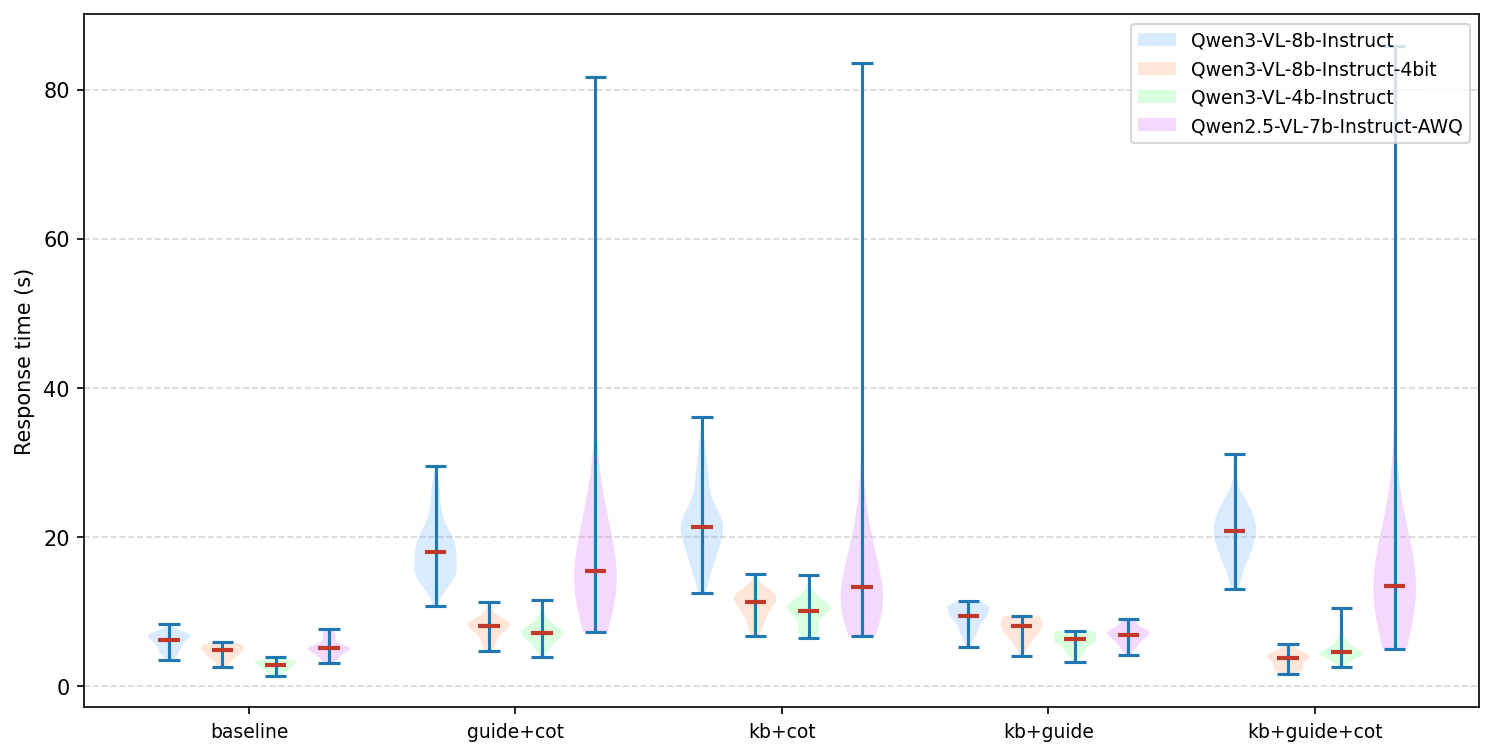
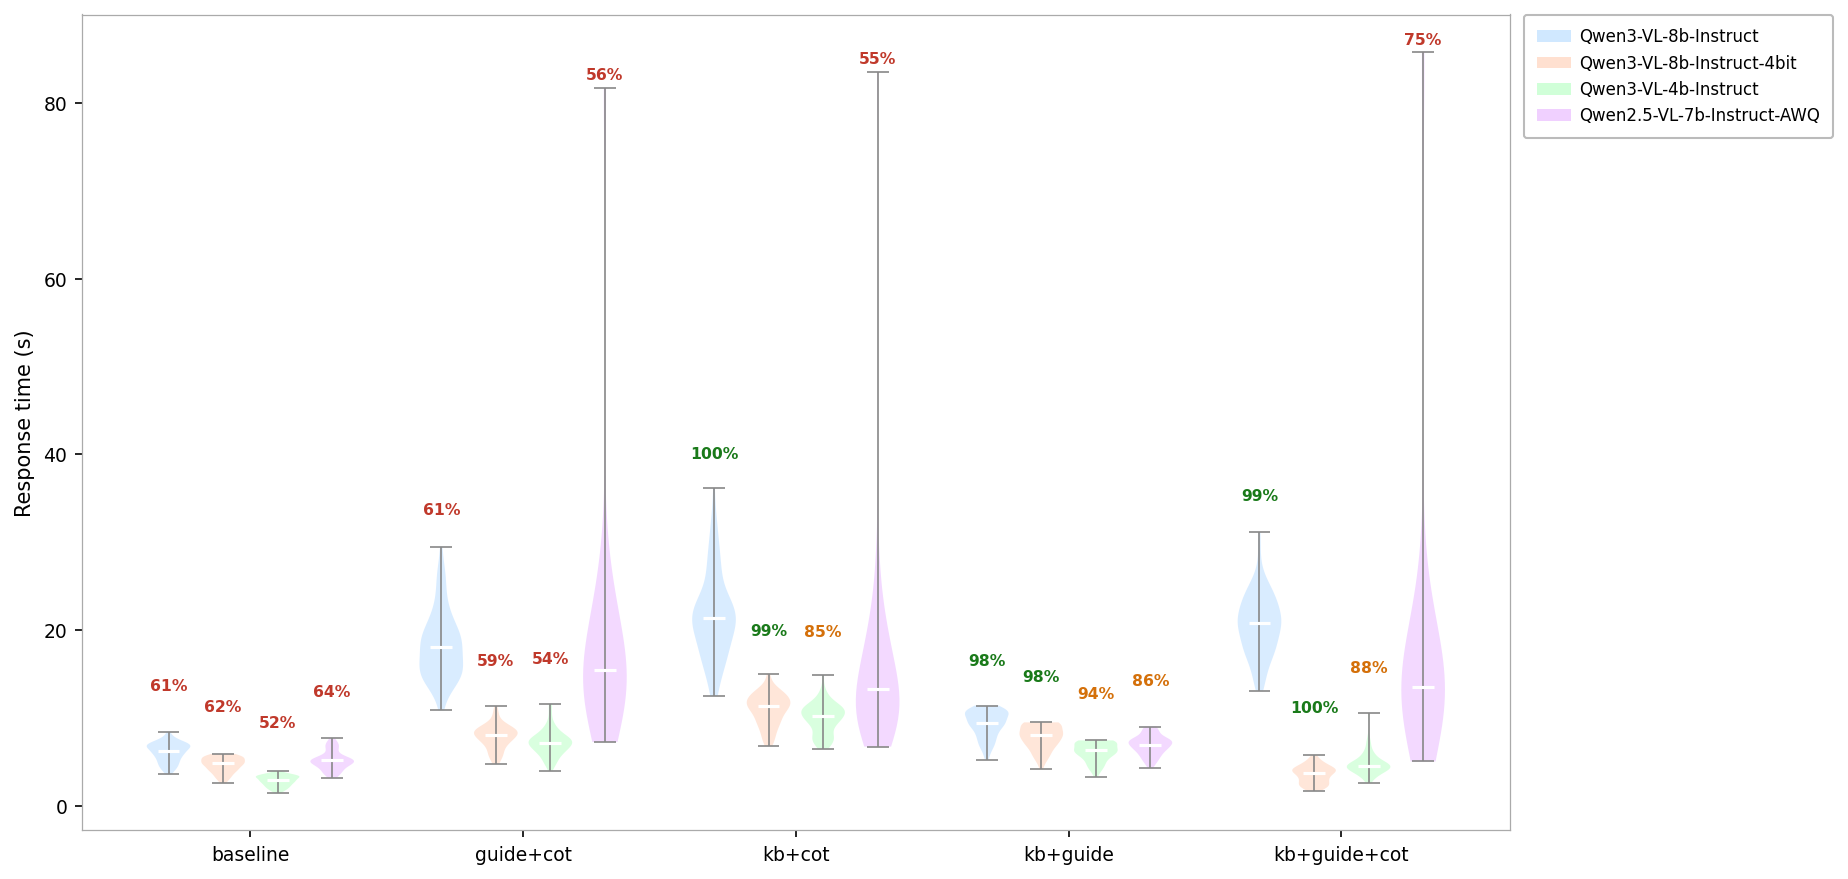
update

diff --git a/src/run.py b/src/run.py
@@ -146,7 +146,26 @@ def _misid_avg_ned(entries):
     return sum(neds) / len(neds) if neds else None
 
 
+def _pretty_model(name):
+    return (name.replace("qwen3", "Qwen3").replace("qwen2.5", "Qwen2.5")
+               .replace("-vl-", "-VL-").replace("instruct", "Instruct")
+               .replace("awq", "AWQ").replace("4bit", "4bit"))
+
+
+def _cfg_label(code):
+    cfg = code[1:]
+    parts = []
+    if cfg[0] == "1": parts.append("kb")
+    if cfg[1] == "1": parts.append("guide")
+    if cfg[2] == "1": parts.append("cot")
+    return "+".join(parts) if parts else "baseline"
+
+
 def analyze_all():
+    import matplotlib.pyplot as plt
+    import matplotlib.colors as mcolors
+    import numpy as np
+
     base = Path(__file__).parent
     log_dir = base.parent / "logs"
     log_files = sorted(log_dir.glob("log????.txt"))
@@ -177,30 +196,161 @@ def analyze_all():
         print("No parseable entries found.")
         return
 
-    def pct(a, b):
-        return f"{a/b*100:.1f}%" if b else "-"
+    def cell(n, c, u, m):
+        if n == 0:
+            return "-"
+        return f"{c/n*100:.0f} / {u/n*100:.0f} / {m/n*100:.0f}"
 
     n_total = rows[0]["stats"][0]
 
-    base = Path(__file__).parent
-    out = base.parent / "logs" / "analysis.md"
-    lines = []
-    lines.append("# 实验结果对比\n")
-    lines.append(f"n={n_total}\n")
-    lines.append("**正确** = 识别正确　**未知** = 拒识/高不确定性（安全，触发人工复核）　**误识** = 给出错误药名（**危险**）\n")
+    # ── ablation table (消融表) ───────────────────────────────────────────────
+    # cfg order: canonical 2³ order (kb/guide/cot bits)
+    CFG_ORDER = [
+        "baseline",
+        "kb", "guide", "cot",
+        "kb+guide", "kb+cot", "guide+cot",
+        "kb+guide+cot",
+    ]
 
-    lines.append("| code | 模型 | 知识库 | 引导 | CoT | 正确 | 未知 | 误识 | 误识均NED | 均时 |")
-    lines.append("|:----:|:----:|:------:|:----:|:---:|:----:|:----:|:----:|:---------:|:----:|")
+    # build lookup: (model, cfg_label) -> (n, correct, unknown, misid)
+    lookup = {}
     for r in rows:
-        n, c, u, m = r["stats"]
-        avg = f"{sum(r['times'])/len(r['times']):.3f}s" if r["times"] else "-"
-        ned = f"{r['ned']:.2f}" if r["ned"] is not None else "-"
-        lines.append(
-            f"| {r['code']} | {r['model']} | {r['kb']} | {r['guide']} | {r['cot']} "
-            f"| {pct(c,n)} | {pct(u,n)} | {pct(m,n)} | {ned} | {avg} |"
-        )
+        lookup[(r["model"], _cfg_label(r["code"]))] = r["stats"]
 
-    out.write_text("\n".join(lines) + "\n", encoding="utf-8")
+    all_models = list(dict.fromkeys(r["model"] for r in rows))
+    model_labels = [_pretty_model(m) for m in all_models]
+
+    out_md = base.parent / "logs" / "analysis.md"
+    lines = []
+    lines.append("# 消融实验结果\n")
+    lines.append(f"n={n_total}　**正确% / 拒识% / 误识%**\n")
+
+    # header
+    header = "| 配置 | " + " | ".join(model_labels) + " |"
+    sep    = "|:---:|" + ":---:|" * len(all_models)
+    lines.append(header)
+    lines.append(sep)
+
+    for cfg in CFG_ORDER:
+        cells = []
+        for model in all_models:
+            stats = lookup.get((model, cfg))
+            if stats is None:
+                cells.append("-")
+            else:
+                n, c, u, m = stats
+                cells.append(cell(n, c, u, m))
+        lines.append(f"| {cfg} | " + " | ".join(cells) + " |")
+
+    out_md.write_text("\n".join(lines) + "\n", encoding="utf-8")
+
+    # ── shared data prep ──────────────────────────────────────────────────────
+    all_models = list(dict.fromkeys(r["model"] for r in rows))
+    all_cfgs   = list(dict.fromkeys(_cfg_label(r["code"]) for r in rows))
+
+    # accuracy matrix  [model × cfg]
+    acc_matrix  = np.full((len(all_models), len(all_cfgs)), np.nan)
+    misid_matrix = np.full((len(all_models), len(all_cfgs)), np.nan)
+    for r in rows:
+        mi = all_models.index(r["model"])
+        ci = all_cfgs.index(_cfg_label(r["code"]))
+        n, c, u, m = r["stats"]
+        acc_matrix[mi, ci]   = c / n * 100
+        misid_matrix[mi, ci] = m / n * 100
+
+    model_labels = [_pretty_model(m) for m in all_models]
+
+    # ── heatmap ───────────────────────────────────────────────────────────────
+    fig, axes = plt.subplots(1, 2, figsize=(14, max(3.5, len(all_models) * 0.9 + 1.5)))
+
+    for ax, matrix, title, cmap, fmt in [
+        (axes[0], acc_matrix,   "Accuracy (%)",        "YlGn",  ".1f"),
+        (axes[1], misid_matrix, "Misidentification (%)", "YlOrRd", ".1f"),
+    ]:
+        im = ax.imshow(matrix, cmap=cmap, vmin=0, vmax=100, aspect="auto")
+        ax.set_xticks(range(len(all_cfgs)))
+        ax.set_xticklabels(all_cfgs, rotation=30, ha="right", fontsize=8)
+        ax.set_yticks(range(len(all_models)))
+        ax.set_yticklabels(model_labels, fontsize=8)
+        ax.set_title(title, fontsize=10, pad=8)
+        for i in range(len(all_models)):
+            for j in range(len(all_cfgs)):
+                val = matrix[i, j]
+                if not np.isnan(val):
+                    text_color = "black" if val < 60 else ("white" if val > 80 else "black")
+                    ax.text(j, i, f"{val:{fmt}}", ha="center", va="center",
+                            fontsize=8, color=text_color, fontweight="bold")
+        plt.colorbar(im, ax=ax, fraction=0.046, pad=0.04)
+
+    fig.tight_layout()
+    out_hm = base.parent / "logs" / "heatmap.png"
+    fig.savefig(out_hm, dpi=150, bbox_inches="tight")
+    plt.close(fig)
+
+    # ── scatter: avg_time vs accuracy ─────────────────────────────────────────
+    # model: color (muted academic palette), cfg: marker shape
+    # Nature-style palette (npg: Nature Publishing Group)
+    color_map  = ["#E64B35", "#4DBBD5", "#00A087", "#3C5488", "#F39B7F"]
+    marker_map = {"baseline": "o", "kb": "s", "guide": "^", "cot": "D",
+                  "kb+guide": "s", "kb+cot": "^", "guide+cot": "D", "kb+guide+cot": "P"}
+
+    fig2, ax2 = plt.subplots(figsize=(9, 5.5))
+    fig2.patch.set_facecolor("white")
+    ax2.set_facecolor("white")
+    ax2.set_xlabel("Average response time (s)", fontsize=10)
+    ax2.set_ylabel("Accuracy (%)", fontsize=10)
+    ax2.tick_params(labelsize=9)
+    ax2.grid(False)
+    for spine in ax2.spines.values():
+        spine.set_linewidth(0.6)
+        spine.set_color("#aaaaaa")
+
+    plotted = {}  # track (model, cfg) for legend dedup
+    for r in rows:
+        if not r["times"]:
+            continue
+        avg_t = sum(r["times"]) / len(r["times"])
+        n, c, u, m = r["stats"]
+        acc   = c / n * 100
+        mi    = all_models.index(r["model"])
+        cfg   = _cfg_label(r["code"])
+        color  = color_map[mi % len(color_map)]
+        marker = marker_map.get(cfg, "o")
+        ax2.scatter(avg_t, acc,
+                    color=color, marker=marker,
+                    s=55, edgecolors=color, linewidths=0.5,
+                    zorder=3, alpha=0.92)
+        plotted.setdefault("model", set()).add(mi)
+        plotted.setdefault("cfg",   set()).add(cfg)
+
+    # y-axis: focus on meaningful range
+    all_acc = [r["stats"][1] / r["stats"][0] * 100 for r in rows]
+    ax2.set_xlim(left=0)
+    ax2.set_ylim(max(0, min(all_acc) - 8), 103)
+
+    # legend: models (color) + configs (shape), merged into one box
+    from matplotlib.lines import Line2D
+    legend_items = []
+    for i, m in enumerate(all_models):
+        legend_items.append(Line2D([0], [0], marker="o", linestyle="none",
+                                   color=color_map[i % len(color_map)],
+                                   markersize=6, label=_pretty_model(m)))
+    legend_items.append(Line2D([0], [0], linestyle="none", label=""))  # spacer
+    for cfg, mk in marker_map.items():
+        if cfg in plotted.get("cfg", set()):
+            legend_items.append(Line2D([0], [0], marker=mk, linestyle="none",
+                                       color="#666666", markersize=6, label=cfg))
+
+    ax2.legend(handles=legend_items, fontsize=7.5, framealpha=1.0,
+               edgecolor="#bbbbbb", loc="upper left",
+               bbox_to_anchor=(1.02, 1), borderaxespad=0,
+               handletextpad=0.5, borderpad=0.8)
+
+    fig2.tight_layout(pad=1.2)
+    fig2.subplots_adjust(right=0.72)
+    out_sc = base.parent / "logs" / "scatter.png"
+    fig2.savefig(out_sc, dpi=150, bbox_inches="tight")
+    plt.close(fig2)
 
 
 def plot_times():
@@ -214,54 +364,56 @@ def plot_times():
         print("No log files found in logs/")
         return
 
-    # group by model index (first char of code)
     from collections import OrderedDict
-    groups = OrderedDict()  # model_name -> [(config_label, times)]
+    # model_name -> [(config_label, times, accuracy_pct)]
+    groups = OrderedDict()
     for lf in log_files:
         meta, entries = _parse_log(lf)
         times = [e[2] for e in entries if e[2] is not None]
         if not times:
             continue
-        code = meta.get("code", lf.stem[3:])
+        code  = meta.get("code", lf.stem[3:])
         model = meta.get("model", "?")
-        # config label from last 3 chars: knowledge/guide/cot
-        cfg = code[1:]
-        cfg_parts = []
-        if cfg[0] == "1": cfg_parts.append("kb")
-        if cfg[1] == "1": cfg_parts.append("guide")
-        if cfg[2] == "1": cfg_parts.append("cot")
-        cfg_label = "+".join(cfg_parts) if cfg_parts else "baseline"
-        groups.setdefault(model, []).append((cfg_label, times))
+        cfg_label = _cfg_label(code)
+        n, c, u, m = _group_stats(entries)
+        acc = c / n * 100 if n else 0.0
+        groups.setdefault(model, []).append((cfg_label, times, acc))
 
     models = list(groups.keys())
     if not models:
         print("No parseable entries found.")
         return
 
-    colors = ["#d0e8ff", "#ffe0d0", "#d0ffd8", "#f0d0ff"]
-    fig, ax = plt.subplots(figsize=(12, 6))
+    colors     = ["#d0e8ff", "#ffe0d0", "#d0ffd8", "#f0d0ff"]
+    fig, ax = plt.subplots(figsize=(13, 6))
+    fig.patch.set_facecolor("white")
+    ax.set_facecolor("white")
+    for spine in ax.spines.values():
+        spine.set_linewidth(0.6)
+        spine.set_color("#aaaaaa")
 
-    # collect all unique configs across models
     all_cfgs = []
     for model in models:
-        for cfg_label, _ in groups[model]:
+        for cfg_label, _, _ in groups[model]:
             if cfg_label not in all_cfgs:
                 all_cfgs.append(cfg_label)
 
-    positions = []
-    tick_pos = []
+    positions  = []
+    tick_pos   = []
     tick_labels = []
     bar_colors = []
-    all_data = []
+    all_data   = []
+    acc_labels = []   # (x_pos, acc_pct) for annotation
     x = 1
     for cfg in all_cfgs:
         group_start = x
         for idx, model in enumerate(models):
-            for cfg_label, times in groups[model]:
+            for cfg_label, times, acc in groups[model]:
                 if cfg_label == cfg:
                     positions.append(x)
                     all_data.append(times)
                     bar_colors.append(colors[idx % len(colors)])
+                    acc_labels.append((x, acc))
                     x += 1
                     break
         tick_pos.append((group_start + x - 1) / 2)
@@ -274,22 +426,41 @@ def plot_times():
         for i, pc in enumerate(parts["bodies"]):
             pc.set_facecolor(bar_colors[i])
             pc.set_alpha(0.8)
-        parts["cmedians"].set_color("#c0392b")
-        parts["cmedians"].set_linewidth(2)
+        parts["cmedians"].set_color("white")
+        parts["cmedians"].set_linewidth(1.5)
+        for key in ("cmins", "cmaxes", "cbars"):
+            parts[key].set_linewidth(0.8)
+            parts[key].set_color("#888888")
+
+        # annotate accuracy above each violin
+        y_top = ax.get_ylim()[1]
+        for xpos, acc in acc_labels:
+            max_t = max(all_data[positions.index(xpos)])
+            label_y = max_t + (y_top - max_t) * 0.05 + 0.3
+            color = "#1a7a1a" if acc >= 95 else ("#d4700a" if acc >= 80 else "#c0392b")
+            ax.text(xpos, label_y, f"{acc:.0f}%",
+                    ha="center", va="bottom", fontsize=7.5,
+                    fontweight="bold", color=color)
+
     ax.set_xticks(tick_pos)
     ax.set_xticklabels(tick_labels, fontsize=9)
-    ax.set_ylabel("Response time (s)")
-    ax.grid(axis="y", linestyle="--", alpha=0.5)
-    # legend
+    ax.set_ylabel("Response time (s)", fontsize=10)
+    ax.tick_params(labelsize=9)
+    ax.grid(False)
+
     from matplotlib.patches import Patch
-    def _pretty_model(name):
-        return name.replace("qwen", "Qwen").replace("vl", "VL").replace("instruct", "Instruct").replace("awq", "AWQ")
-    legend_items = [Patch(facecolor=colors[i], alpha=0.8, label=_pretty_model(m))
+    legend_items = [Patch(facecolor=colors[i], label=_pretty_model(m))
                     for i, m in enumerate(models)]
-    ax.legend(handles=legend_items, fontsize=9, loc="upper right")
+    ax.legend(handles=legend_items, fontsize=8, framealpha=1.0,
+              edgecolor="#bbbbbb", loc="upper left",
+              bbox_to_anchor=(1.01, 1), borderaxespad=0,
+              borderpad=0.8, handletextpad=0.5)
+
+    fig.tight_layout(pad=1.2)
+    fig.subplots_adjust(right=0.78)
     out = base.parent / "logs" / "time.png"
     fig.savefig(out, dpi=150, bbox_inches="tight")
-    plt.show()
+    plt.close(fig)
 
 
 def run_experiment(code):

diff --git a/logs/analysis.md b/logs/analysis.md
@@ -1,28 +1,14 @@
-# 实验结果对比
+# 消融实验结果
 
-n=80
+n=80　**正确% / 拒识% / 误识%**
 
-**正确** = 识别正确　**未知** = 拒识/高不确定性（安全，触发人工复核）　**误识** = 给出错误药名（**危险**）
-
-| code | 模型 | 知识库 | 引导 | CoT | 正确 | 未知 | 误识 | 误识均NED | 均时 |
-|:----:|:----:|:------:|:----:|:---:|:----:|:----:|:----:|:---------:|:----:|
-| 0000 | qwen3-vl-8b-instruct | off | off | off | 61.3% | 0.0% | 38.8% | 0.58 | 6.052s |
-| 0011 | qwen3-vl-8b-instruct | off | on | on | 61.3% | 0.0% | 38.8% | 0.50 | 18.195s |
-| 0101 | qwen3-vl-8b-instruct | on | off | on | 100.0% | 0.0% | 0.0% | - | 21.631s |
-| 0110 | qwen3-vl-8b-instruct | on | on | off | 97.5% | 0.0% | 2.5% | 0.56 | 9.251s |
-| 0111 | qwen3-vl-8b-instruct | on | on | on | 98.8% | 1.2% | 0.0% | - | 20.549s |
-| 1000 | qwen3-vl-8b-instruct-4bit | off | off | off | 62.5% | 0.0% | 37.5% | 0.53 | 4.614s |
-| 1011 | qwen3-vl-8b-instruct-4bit | off | on | on | 58.8% | 0.0% | 41.2% | 0.49 | 7.830s |
-| 1101 | qwen3-vl-8b-instruct-4bit | on | off | on | 98.8% | 0.0% | 1.2% | 0.44 | 10.917s |
-| 1110 | qwen3-vl-8b-instruct-4bit | on | on | off | 97.5% | 0.0% | 2.5% | 0.62 | 7.742s |
-| 1111 | qwen3-vl-8b-instruct-4bit | on | on | on | 100.0% | 0.0% | 0.0% | - | 3.537s |
-| 2000 | qwen3-vl-4b-instruct | off | off | off | 52.5% | 10.0% | 37.5% | 0.50 | 2.790s |
-| 2011 | qwen3-vl-4b-instruct | off | on | on | 53.8% | 2.5% | 43.8% | 0.50 | 7.131s |
-| 2101 | qwen3-vl-4b-instruct | on | off | on | 85.0% | 1.2% | 13.8% | 0.58 | 9.903s |
-| 2110 | qwen3-vl-4b-instruct | on | on | off | 93.8% | 0.0% | 6.2% | 0.68 | 6.068s |
-| 2111 | qwen3-vl-4b-instruct | on | on | on | 87.5% | 0.0% | 12.5% | 0.57 | 4.698s |
-| 3000 | qwen2.5-vl-7b-instruct-awq | off | off | off | 63.7% | 0.0% | 36.2% | 0.56 | 5.123s |
-| 3011 | qwen2.5-vl-7b-instruct-awq | off | on | on | 56.2% | 6.2% | 37.5% | 0.55 | 18.107s |
-| 3101 | qwen2.5-vl-7b-instruct-awq | on | off | on | 55.0% | 15.0% | 30.0% | 0.47 | 14.513s |
-| 3110 | qwen2.5-vl-7b-instruct-awq | on | on | off | 86.2% | 0.0% | 13.8% | 0.32 | 6.878s |
-| 3111 | qwen2.5-vl-7b-instruct-awq | on | on | on | 75.0% | 7.5% | 17.5% | 0.45 | 17.184s |
+| 配置 | Qwen3-VL-8b-Instruct | Qwen3-VL-8b-Instruct-4bit | Qwen3-VL-4b-Instruct | Qwen2.5-VL-7b-Instruct-AWQ |
+|:---:|:---:|:---:|:---:|:---:|
+| baseline | 61 / 0 / 39 | 62 / 0 / 38 | 52 / 10 / 38 | 64 / 0 / 36 |
+| kb | - | - | - | - |
+| guide | - | - | - | - |
+| cot | - | - | - | - |
+| kb+guide | 98 / 0 / 2 | 98 / 0 / 2 | 94 / 0 / 6 | 86 / 0 / 14 |
+| kb+cot | 100 / 0 / 0 | 99 / 0 / 1 | 85 / 1 / 14 | 55 / 15 / 30 |
+| guide+cot | 61 / 0 / 39 | 59 / 0 / 41 | 54 / 2 / 44 | 56 / 6 / 38 |
+| kb+guide+cot | 99 / 1 / 0 | 100 / 0 / 0 | 88 / 0 / 12 | 75 / 8 / 18 |
